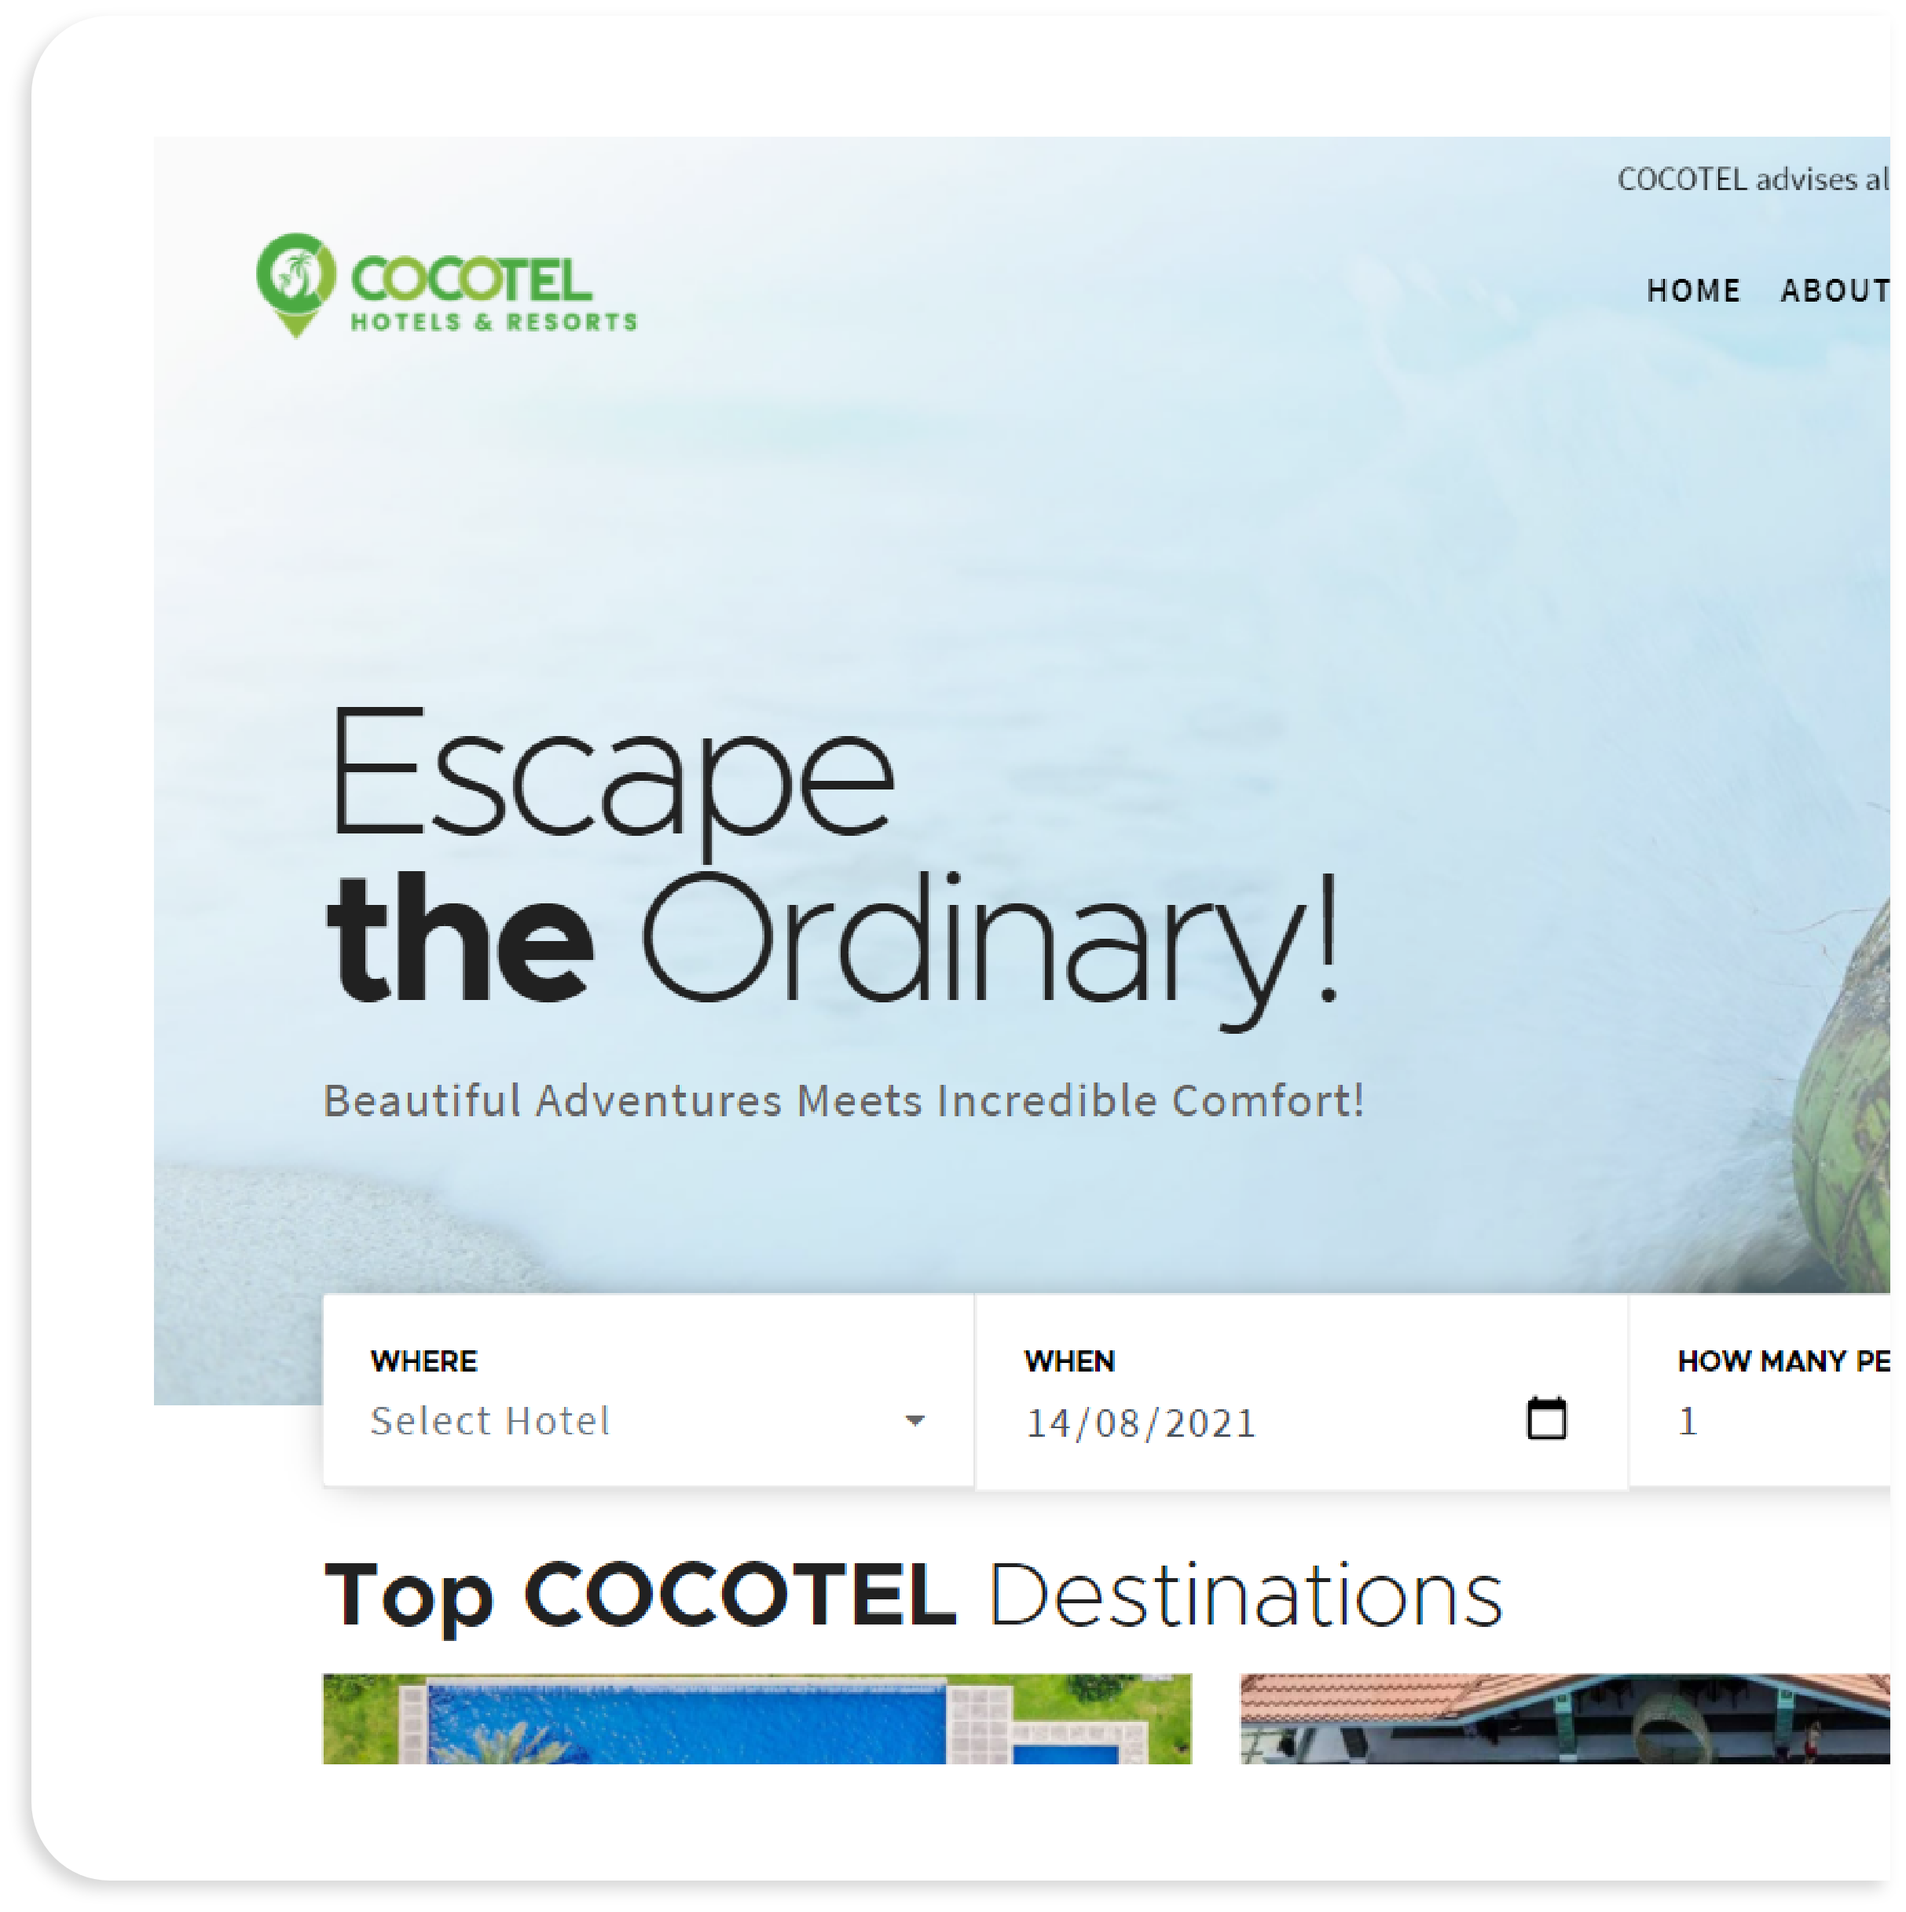
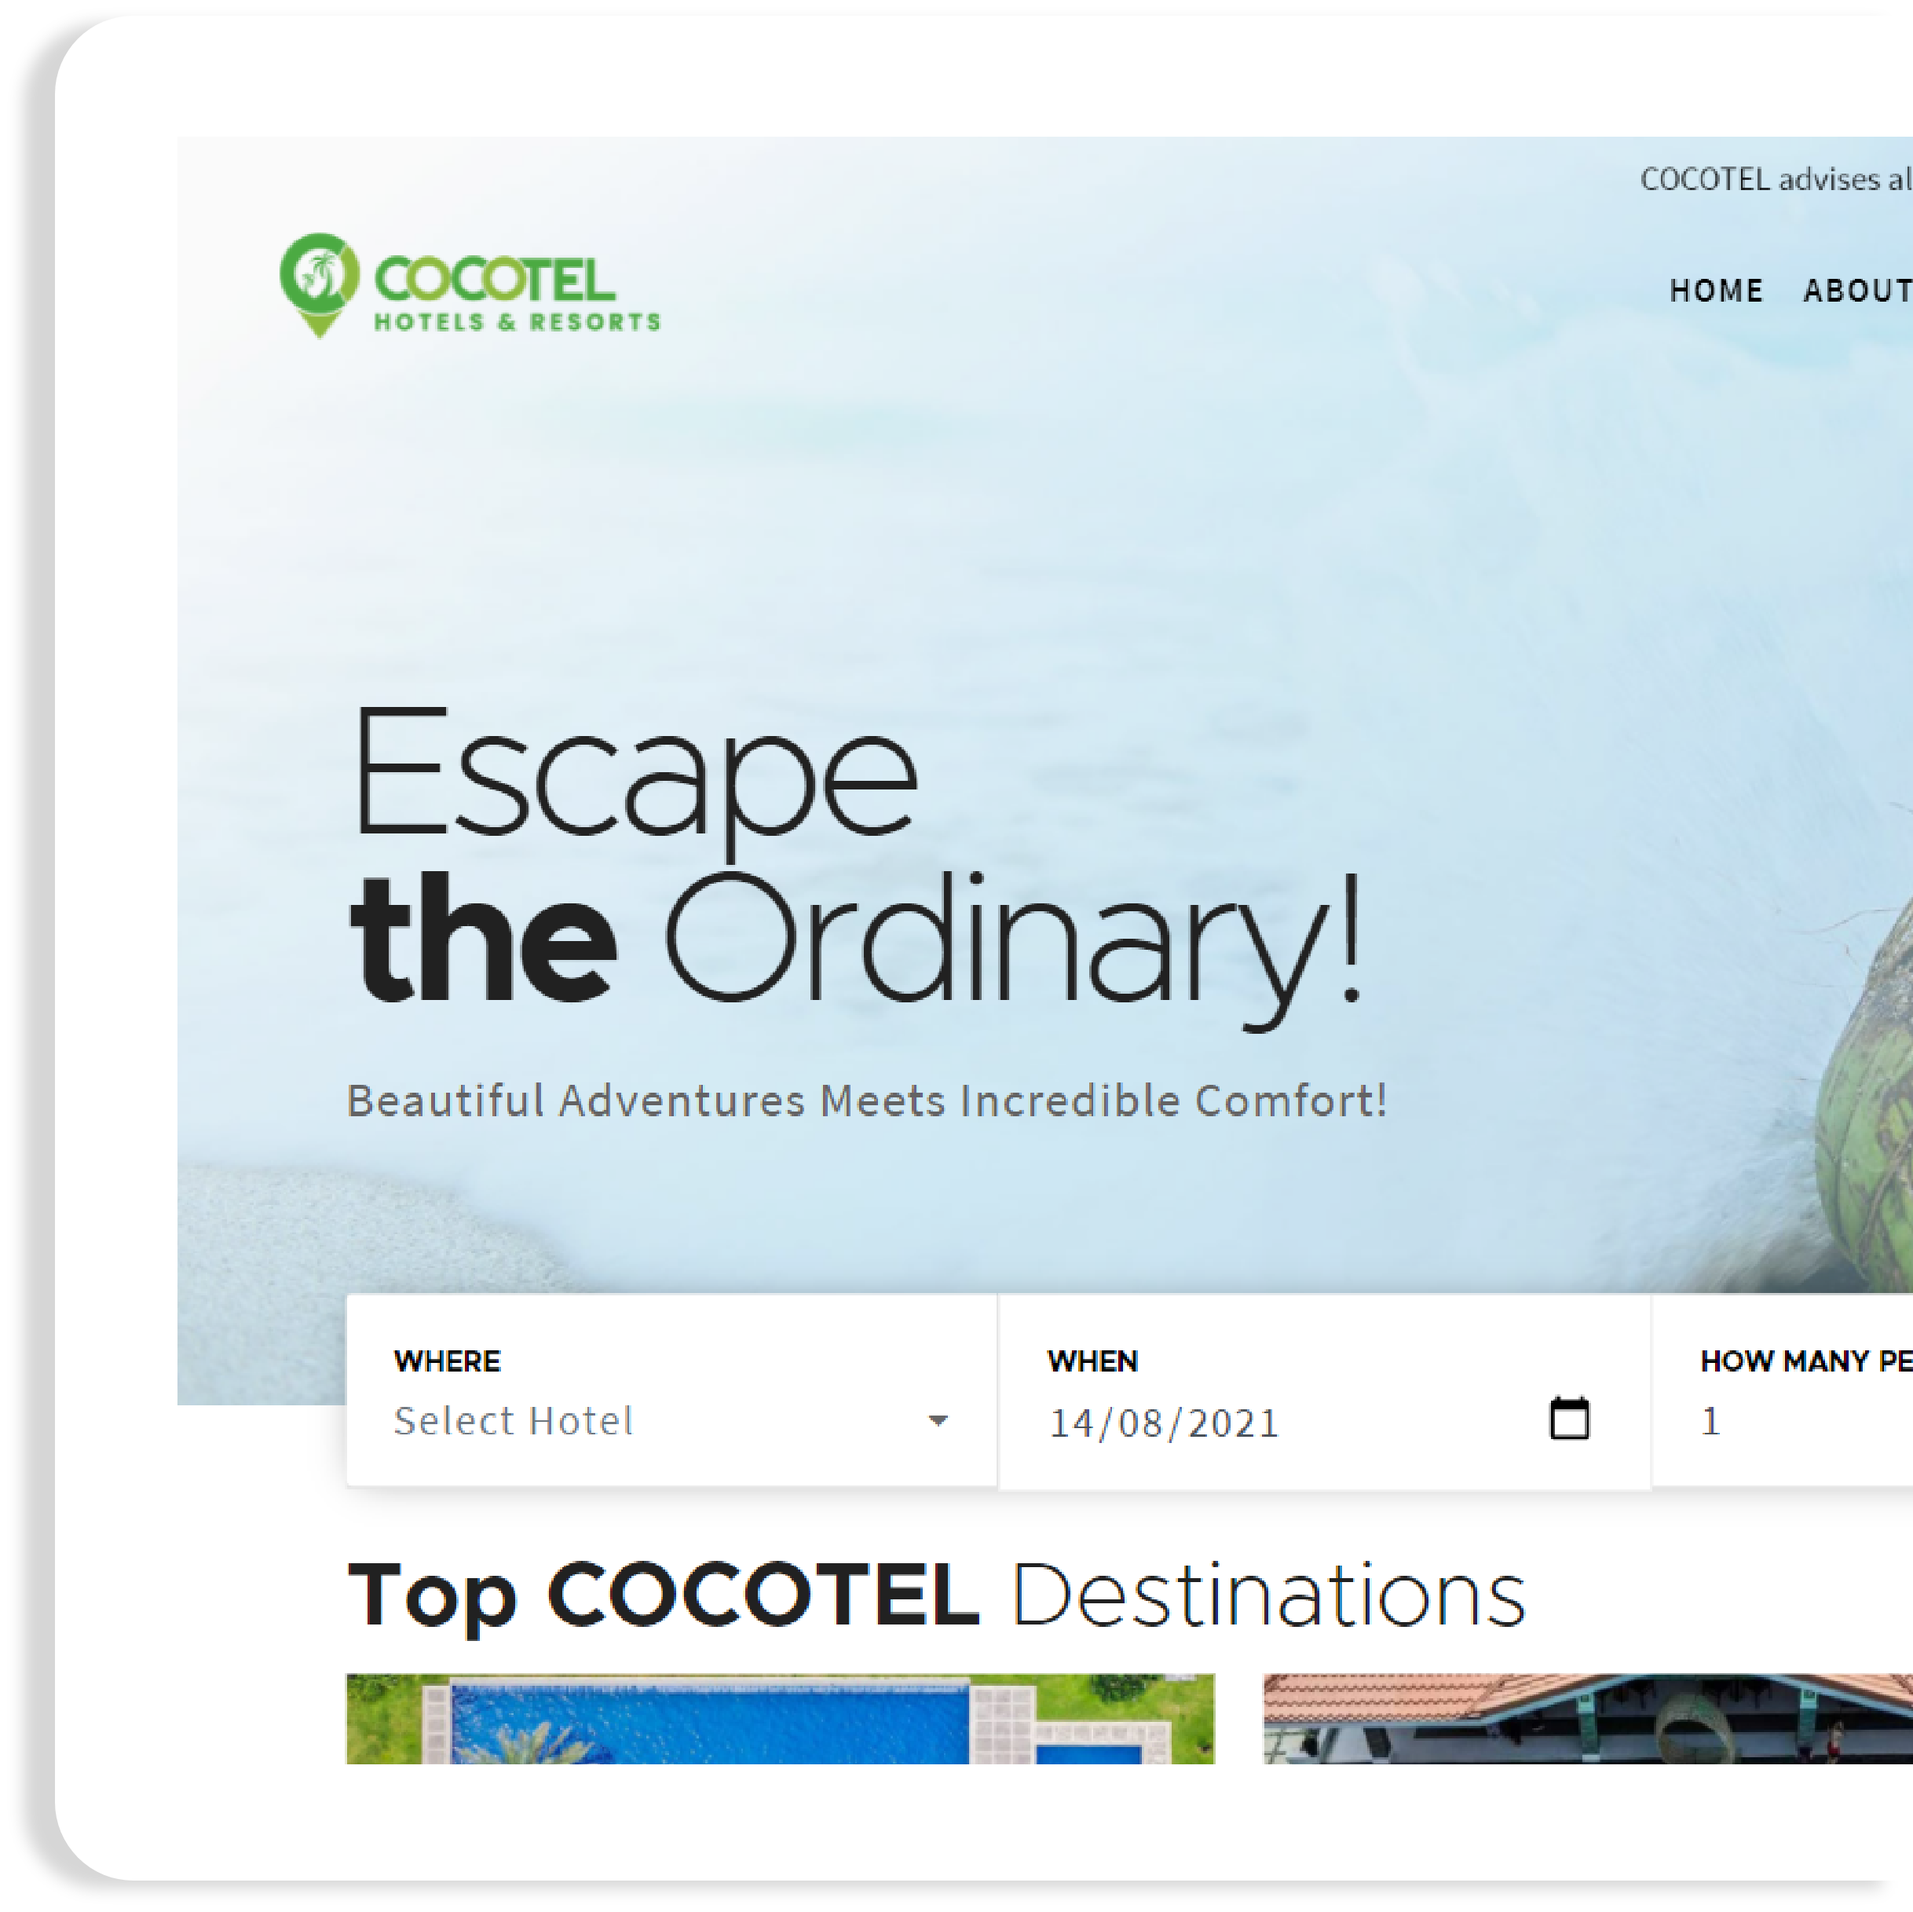
fix UI cocotel & fre4shbuys

diff --git a/pages/index.js b/pages/index.js
@@ -78,7 +78,7 @@ const Home = () => {
       <Alert isAlert={isAlert} setIsAlert={setisAlert} title={'Message sent!'} great={'Okay, thanks!'}  message={'Thank you for reaching out to us. We will get back to your concern as soon as possible.'}/>
 
       <div className="h-full bg-red flex flex-col justify-between ">
-        <div className="w-full text-black 2xl:py-0 xl:py-12 lg:py-4 py-4 lg:px-4">
+        <div className="w-full text-black 2xl:py-24 xl:py-12 lg:py-4 py-4 lg:px-4">
           <div className="container mx-auto py-8 flex lg:flex-row flex-col items-center justify-around">
 
           <div className="md:w-7/12 w-10/12 xl:hidden lg:hidden flex">
@@ -324,7 +324,7 @@ const Home = () => {
                 required />
                 {errors.name 
                   && errors.name.type === "required" 
-                  && <span className="custom-text-color font-semibold">Please enter your fullname</span>}
+                  && <span className="custom-text-color">Please enter your fullname</span>}
               </div> 
               <div className="mb-4 lg:flex flex-row items-start w-full justify-between lg:space-x-4">
                 <div className="lg:w-1/2 w-full">
@@ -343,10 +343,10 @@ const Home = () => {
                   required />
                    {errors.email 
                      && errors.email.type === "required" 
-                     && <span className="custom-text-color font-semibold">Please enter email</span>}
+                     && <span className="custom-text-color">Please enter email</span>}
                     {errors.email 
                       && errors.email.type === "pattern" 
-                      && <span className="custom-text-color font-semibold">Please enter valid email</span> }
+                      && <span className="custom-text-color">Please enter valid email</span> }
                 </div> 
                 <div className="lg:w-1/2 w-full lg:mt-0 mt-4">
                   <label htmlFor="number" className="block text-md mb-2">Mobile number</label>
@@ -370,10 +370,10 @@ const Home = () => {
                   </div>
                   {errors.number 
                       && errors.number.type === "required" 
-                      && <span className="custom-text-color font-semibold">Please enter mobile number</span>}
+                      && <span className="custom-text-color">Please enter mobile number</span>}
                      {errors.number 
                         && errors.number.type === "pattern" 
-                        && <span className="custom-text-color font-semibold">Please enter valid mobile number</span> }
+                        && <span className="custom-text-color">Please enter valid mobile number</span> }
                 </div> 
               </div>
               <div className="mb-4 w-full">
@@ -392,7 +392,7 @@ const Home = () => {
                 required />
                 {errors.subject 
                   && errors.subject.type === "required" 
-                  && <span className="custom-text-color font-semibold">Please enter subject</span>}
+                  && <span className="custom-text-color">Please enter subject</span>}
               </div> 
               <div className="mb-4 w-full">
                 <label htmlFor="message" className="block text-md mb-2">How can we help you?</label>
@@ -410,7 +410,7 @@ const Home = () => {
                 required />
                 {errors.message 
                   && errors.message.type === "required" 
-                  && <span className="custom-text-color font-semibold">Please write your message</span>}
+                  && <span className="custom-text-color">Please write your message</span>}
               </div> 
               <div className="lg:flex md:flex items-center justify-between lg:space-x-4 w-full ">
                 <div className={homestyle.formgroup}>

diff --git a/component/modal.js b/component/modal.js
@@ -169,7 +169,7 @@ export const Modal = ({ showModal, setShowModal }) => {
                           required />
                           {errors.name 
                             && errors.name.type === "required" 
-                            && <span className="custom-text-color font-semibold">Please enter your full name</span>}
+                            && <span className="custom-text-color">Please enter your full name</span>}
                       </div> 
                       <div className="mb-4 lg:flex flex-row items-start w-full justify-between lg:space-x-4">
                           <div className="lg:w-1/2 w-full">
@@ -306,7 +306,7 @@ export const Modal = ({ showModal, setShowModal }) => {
                             <input type="checkbox" id="agree"  {...register("check", { required: true })}/>
                             <label htmlFor="agree" className="flex items-center">
                               {/* <span className="ml-4">I agree with <u>PayAfter’s Terms & Conditions</u>  and <u>Privacy Policy</u>.</span> */}
-                              <span className="ml-4">I agree with PayAfter’s <Link href="/privacy?terms"><a className="text-red-500"><u>Terms & Conditions</u></a></Link>  and  <Link href="/privacy"><a className="text-red-500"><u> Privacy Policy</u></a></Link>.</span>
+                              <span className="ml-4">I agree with PayAfter’s <Link href="/privacy?terms"><a className="text-red-500"><u>Terms & Policy</u></a></Link>.</span>
                             </label>
                           </div>
                           <button 
